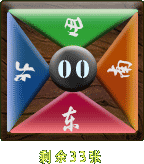
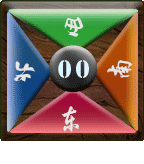
赢牌信息显示

Changed region(s): [[0.5556, 0.9146, 0.7222, 1.0], [0.3889, 0.9146, 0.5278, 1.0], [0.2778, 0.9146, 0.3611, 1.0]]

diff --git a/src/PlayScene.js b/src/PlayScene.js
@@ -5,11 +5,13 @@ var PlayLayer = cc.Layer.extend({
   _sioClient:null,
   bgSprite:null,
   timeLabel:null,
+  furtruepaiLabel:null,
   circleSprites1:null,
   touchx:null,
   touchy:null,
   score:null,
-  choose:null,
+  winboard:null,
+  winpailist:[],
   paitypecn:["一万","二万","三万","四万","五万","六万","七万","八万","九万","一条","二条","三条","四条","五条","六条","七条","八条","九条","一筒","二筒","三筒","四筒","五筒","六筒","七筒","八筒","九筒","东","南","西","北","红","發","白"],
   paitype:[0, 1, 2, 3, 4, 5, 6, 7, 8, 9, 10, 11, 12, 13, 14, 15, 16, 17, 18, 19, 20, 21, 22, 23, 24, 25, 26, 27, 28, 29, 30, 31, 32,33],
   player1:[],
@@ -31,7 +33,6 @@ var PlayLayer = cc.Layer.extend({
   player3pengpai:[],
   player4pengpai:[],
   player1penglist:[],
-
   player1gang:0,
   player2gang:0,
   player3gang:0,
@@ -80,6 +81,15 @@ var PlayLayer = cc.Layer.extend({
       this.timeLabel.setFontFillColor(cc.color(226, 39, 107, 255)); 
       this.addChild(this.timeLabel, 35);
       this.timeLabel.setString('');
+
+      this.furtruepaiLabel = new cc.LabelTTF("0", "Arial", 26);
+      this.furtruepaiLabel.attr({
+         x: size.width*0.5,
+         y: size.height *0.4,
+      });
+      this.furtruepaiLabel.setFontFillColor(cc.color(239, 252, 97, 255)); 
+      this.addChild(this.furtruepaiLabel, 45);
+      this.furtruepaiLabel.setString('');
      
       var centerItem = new cc.MenuItemImage(
         res.p_ui_center,
@@ -262,16 +272,13 @@ var PlayLayer = cc.Layer.extend({
                   break;
                 }
               }
-            
-            
           }
         }
-       
-       
 
       }
       else if (msg.code==2) {
         console.log("game start");
+        _this.playerinfo=msg.playerinfo;
         sioclient.emit('gameinfo',msg.roomid,{code:1,player:_this.playerid});
       };            
     });
@@ -285,6 +292,8 @@ var PlayLayer = cc.Layer.extend({
         _this.player1=msg.pais;
         _this.seat=msg.seat;
         console.log(_this.player1list);
+         _this.furtruepaiLabel.setString('剩余83张');
+
         _this.initPlayer(msg.turnseat);
       }else if (msg.code==5){ //code 5 出牌
         var theseat=msg.seat;
@@ -356,7 +365,7 @@ var PlayLayer = cc.Layer.extend({
             _this.showP4Gang(paitype,fromseat);
             break;
         }
-      }else if (msg.code==13){
+      }else if (msg.code==13){ //有人虎牌
 
         var hubig = new cc.MenuItemImage(
           res.p_ui_chooseview_hu_b,
@@ -378,8 +387,10 @@ var PlayLayer = cc.Layer.extend({
           _this.removeChild(winMenu); 
           _this.showhuscore(msg);
         })
-        
-       
+      }else if (msg.code==15){//剩余牌倒计时
+        console.log()
+        _this.furtruepaiLabel.setString('剩余'+msg.furturepai+'张');
+
       }
     });
   },
@@ -689,16 +700,6 @@ var PlayLayer = cc.Layer.extend({
       _this.player4pai.push(thing);
     // };
   
-  },
-
-  showChoose:function(){
-    this.choose = new cc.Sprite(res.p_ui_choose);
-    var size = cc.winSize;
-    this.choose.attr({
-       x: size.width*0.5,
-       y: size.height *0.3,
-    });
-    this.addChild(this.choose, 15);
   },
 
   checkChoose:function(paitype,self,outseat){
@@ -1090,10 +1091,10 @@ var PlayLayer = cc.Layer.extend({
     }
 
     var newplayer1=[];
-    console.log('player1.length',this.player1.length);
+    //console.log('player1.length',this.player1.length);
     for (var i = 0; i < this.player1.length; i++) {
       if (this.player1[i]==paitype) {
-        console.log('is ',i);
+        //console.log('is ',i);
         this.player1pai[i].removeFromParent();
         this.player1pai[i] = null;
         this.player1list[paitype]--;
@@ -1102,7 +1103,7 @@ var PlayLayer = cc.Layer.extend({
         newplayer1.push(this.player1[i]);
       }
     }
-    console.log('player1.length',newplayer1.length);
+    //console.log('player1.length',newplayer1.length);
 
     for (var i = _this.player1pai.length-1; i >=0; i--) {
       if (_this.player1pai[i] ==null) {
@@ -1137,7 +1138,7 @@ var PlayLayer = cc.Layer.extend({
       _this.player1gangpai.push(thing);
     }
     window.isPlay=true;
-    console.log(_this["player1"]);
+    //console.log(_this["player1"]);
     _this.showCountDown(_this.turncountdown,function(){
         _this.outPai(_this["player1"]-1,paitype);
     })
@@ -1305,10 +1306,11 @@ var PlayLayer = cc.Layer.extend({
     }
   },
 
-  doHu:function(paitype){
+  doHu:function(paitype,outseat){
     var _this=this;
-    console.log('hu',paitype);
-    _this._sioClient.emit('gameinfo',_this.roomid,{code:12,paitype:paitype,seat:_this.seat,playerid:this.playerid});
+    //console.log('hu',paitype);
+    //console.log(_this.playerinfo);
+    _this._sioClient.emit('gameinfo',_this.roomid,{code:12,paitype:paitype,seat:_this.seat,playerid:this.playerid,outseat:outseat});
     this.hideChoose();
     
   },
@@ -1316,14 +1318,14 @@ var PlayLayer = cc.Layer.extend({
   showhuscore:function(data){
     var size = cc.winSize;
     var _this=this;
-    this.choose = new cc.Sprite(res.p_win_scorebg);
-    this.choose.attr({
+    this.winboard = new cc.Sprite(res.p_win_scorebg);
+    this.winboard.attr({
       x: size.width*0.5,
       y: size.height *0.5,
         anchorX: 0.5,
         anchorY: 0.5
     });
-    this.addChild(this.choose, 150);
+    this.addChild(this.winboard, 150);
 
     var scoreTitle = new cc.Sprite(res.p_win_title);
     scoreTitle.attr({
@@ -1332,10 +1334,96 @@ var PlayLayer = cc.Layer.extend({
       anchorX: 0.5,
       anchorY: 0.5
     });
-    _this.choose.addChild(scoreTitle,5);
+    _this.winboard.addChild(scoreTitle,5);
+    //console.log(data);
 
 
+    var gamenumLabel = new cc.LabelTTF('第'+data.gamenum+'轮', "Arial", 26);
+    gamenumLabel.attr({
+           x: size.width*0.8,
+           y: size.height *(0.75),
+      });
+    gamenumLabel.setFontFillColor(cc.color(255, 255, 255, 255)); 
+    _this.winboard.addChild(gamenumLabel, 55);
 
+    var thelist=[0,1,2,3];
+    if (data.seat!=0) {
+      thelist[0]=data.seat;
+      thelist[data.seat]=0;
+    }
+    if (data.fromseat!=5) {
+      var jiepaoimg = new cc.Sprite(res.p_win_jie);
+      jiepaoimg.attr({
+        x: size.width*0.2,
+        y: size.height *0.75
+      });
+      _this.winboard.addChild(jiepaoimg,5);
+    }
+
+    var hostimg = new cc.Sprite(res.p_win_host);
+    var hosty=data.seat==0?0.75:0.58;
+    hostimg.attr({
+      x: size.width*0.06,
+      y: size.height *hosty
+    });
+    _this.winboard.addChild(hostimg,5);
+
+
+    console.log(_this.playerinfo);
+    for (var i = 0; i < 4; i++) {
+      function sortNumber(a,b){
+        return a - b;
+      }
+      data.nowpai[i].sort(sortNumber);
+      //var winnameLabel = new cc.LabelTTF('张三', "Arial", 26);
+      var winnameLabel = new cc.LabelTTF(_this.playerinfo[thelist[i]].playername, "Arial", 26);
+        winnameLabel.attr({
+           x: size.width*0.12,
+           y: size.height *(0.748-i*0.163),
+      });
+      winnameLabel.setFontFillColor(cc.color(255, 255, 255, 255)); 
+      _this.winboard.addChild(winnameLabel, 55);
+
+      if (thelist[i]==data.turn) {
+        var zhuangimg = new cc.Sprite(res.p_win_zhuang);
+        var zhuangimgposy=size.height *(0.675-i*0.167);
+        if (i==3) {zhuangimgposy+=10}
+        zhuangimg.attr({
+          x: size.width*0.125,
+          y: zhuangimgposy
+        });
+        _this.winboard.addChild(zhuangimg,5);
+      }
+
+      var posx=size.width*0.18;
+      var posy=size.height*(0.673-i*0.162);
+      for (var j = 0; j < 13; j++) {
+        var thing = new PaiSprite(res["p_pai"+data.nowpai[thelist[i]][j]]);
+
+        thing.attr({
+            x: posx,
+            y:posy
+        });
+        posx+=50;
+        thing.setAnchorPoint(0.5,0.5);
+        thing.setScaleX(48/thing.getContentSize().width);
+        thing.setScaleY(60/thing.getContentSize().height);
+        _this.winboard.addChild(thing,15);
+        _this.winpailist.push(thing);
+      }
+
+       var thing = new PaiSprite(res["p_pai"+data.paitype]);
+        thing.attr({
+            x: size.width*0.7,
+            y:size.height*0.673
+        });
+        thing.setAnchorPoint(0.5,0.5);
+        thing.setScaleX(48/thing.getContentSize().width);
+        thing.setScaleY(60/thing.getContentSize().height);
+        _this.winboard.addChild(thing,15);
+        _this.winpailist.push(thing);
+
+    }
 
   },
 
